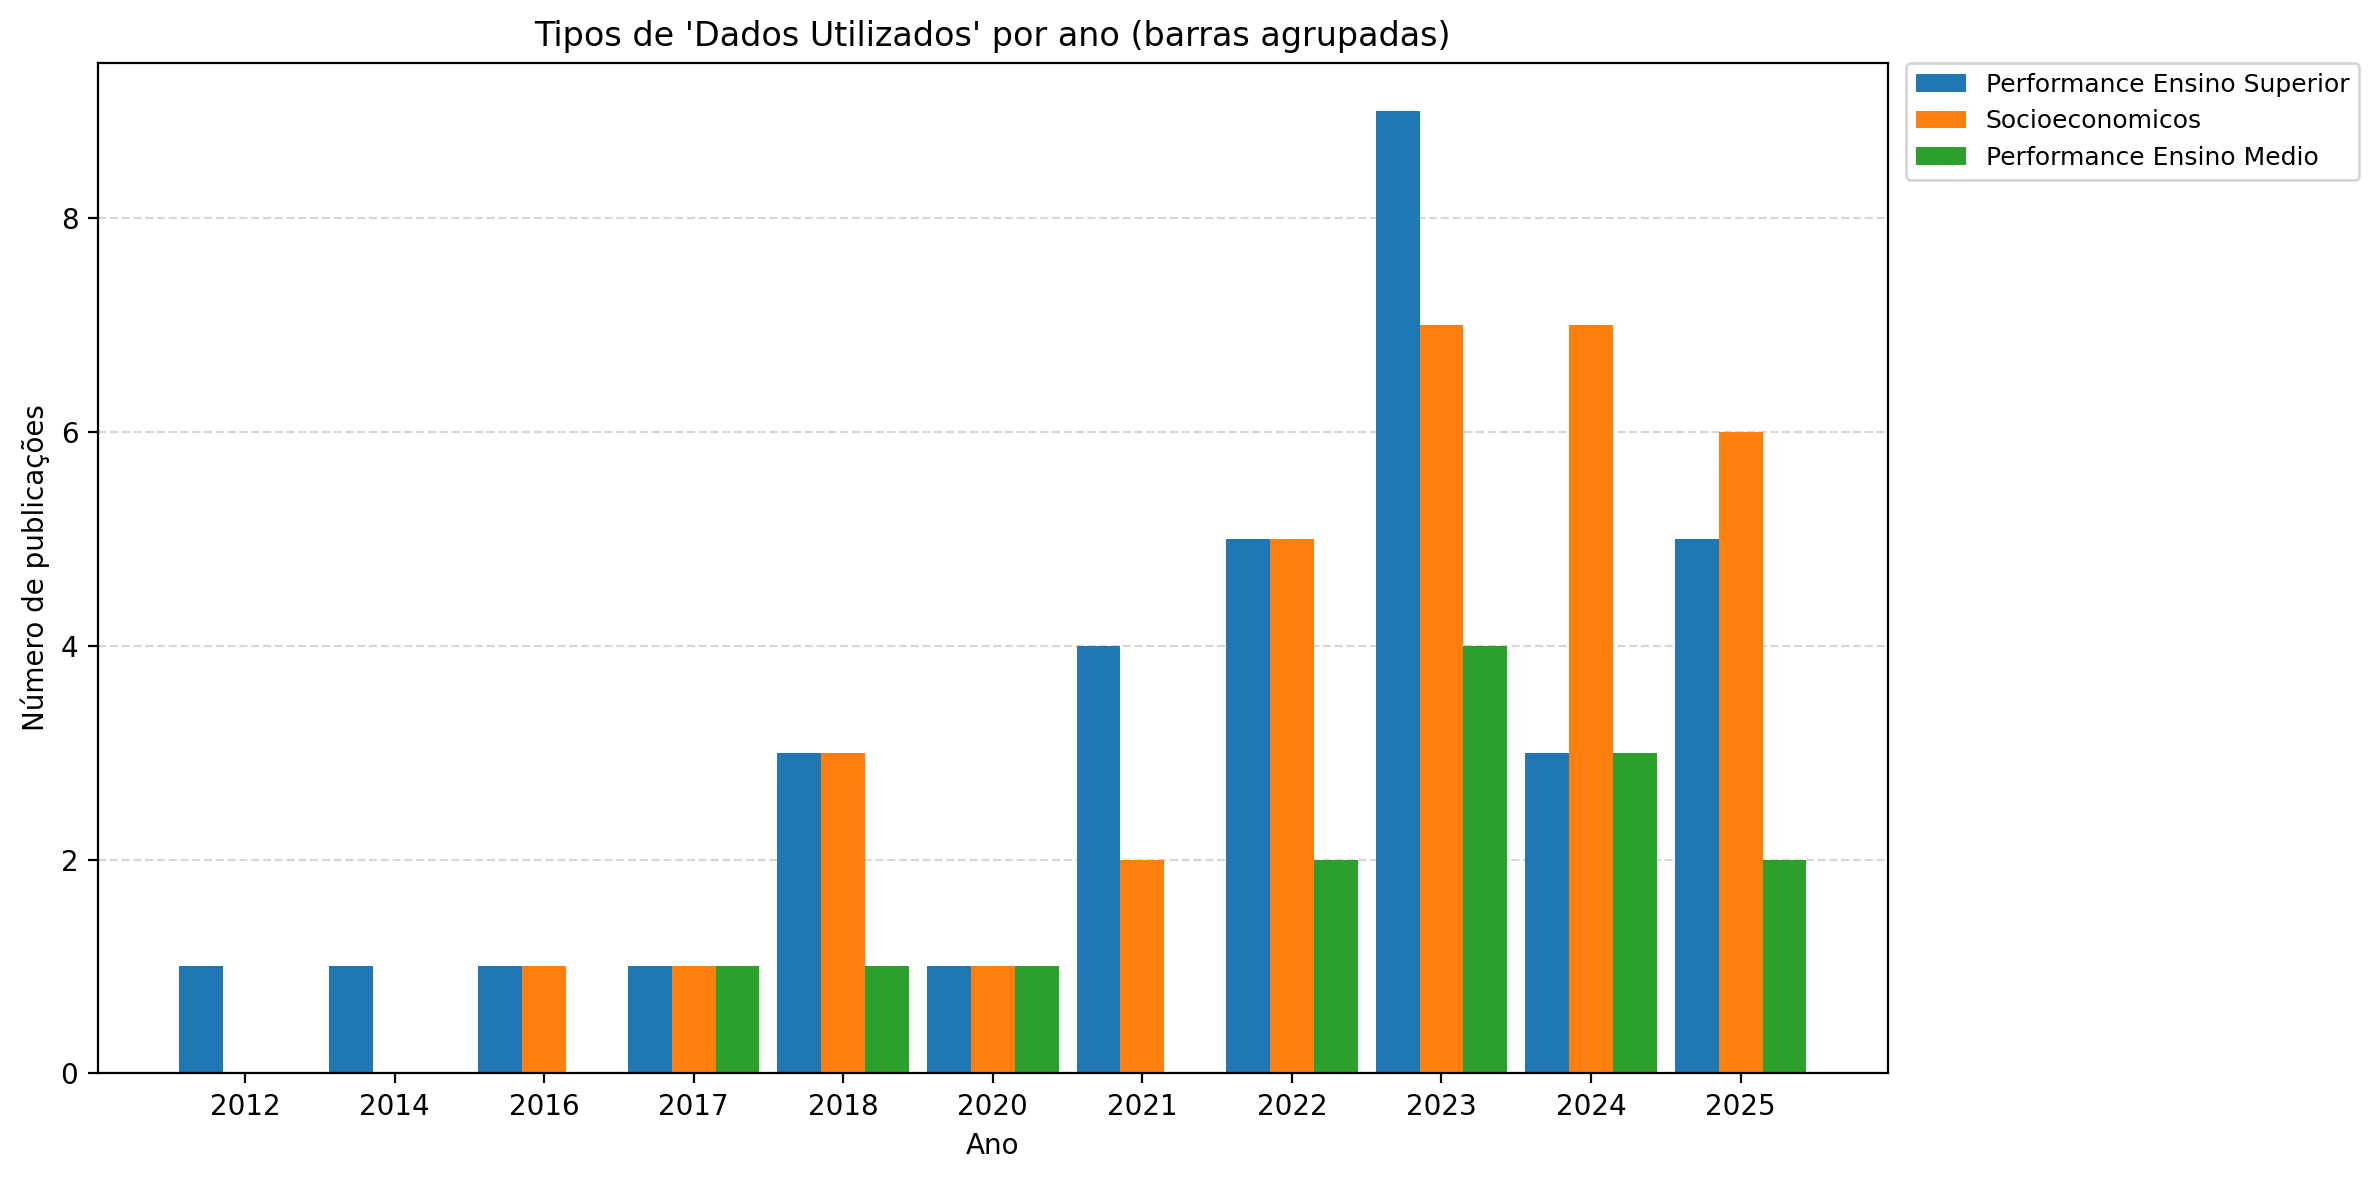
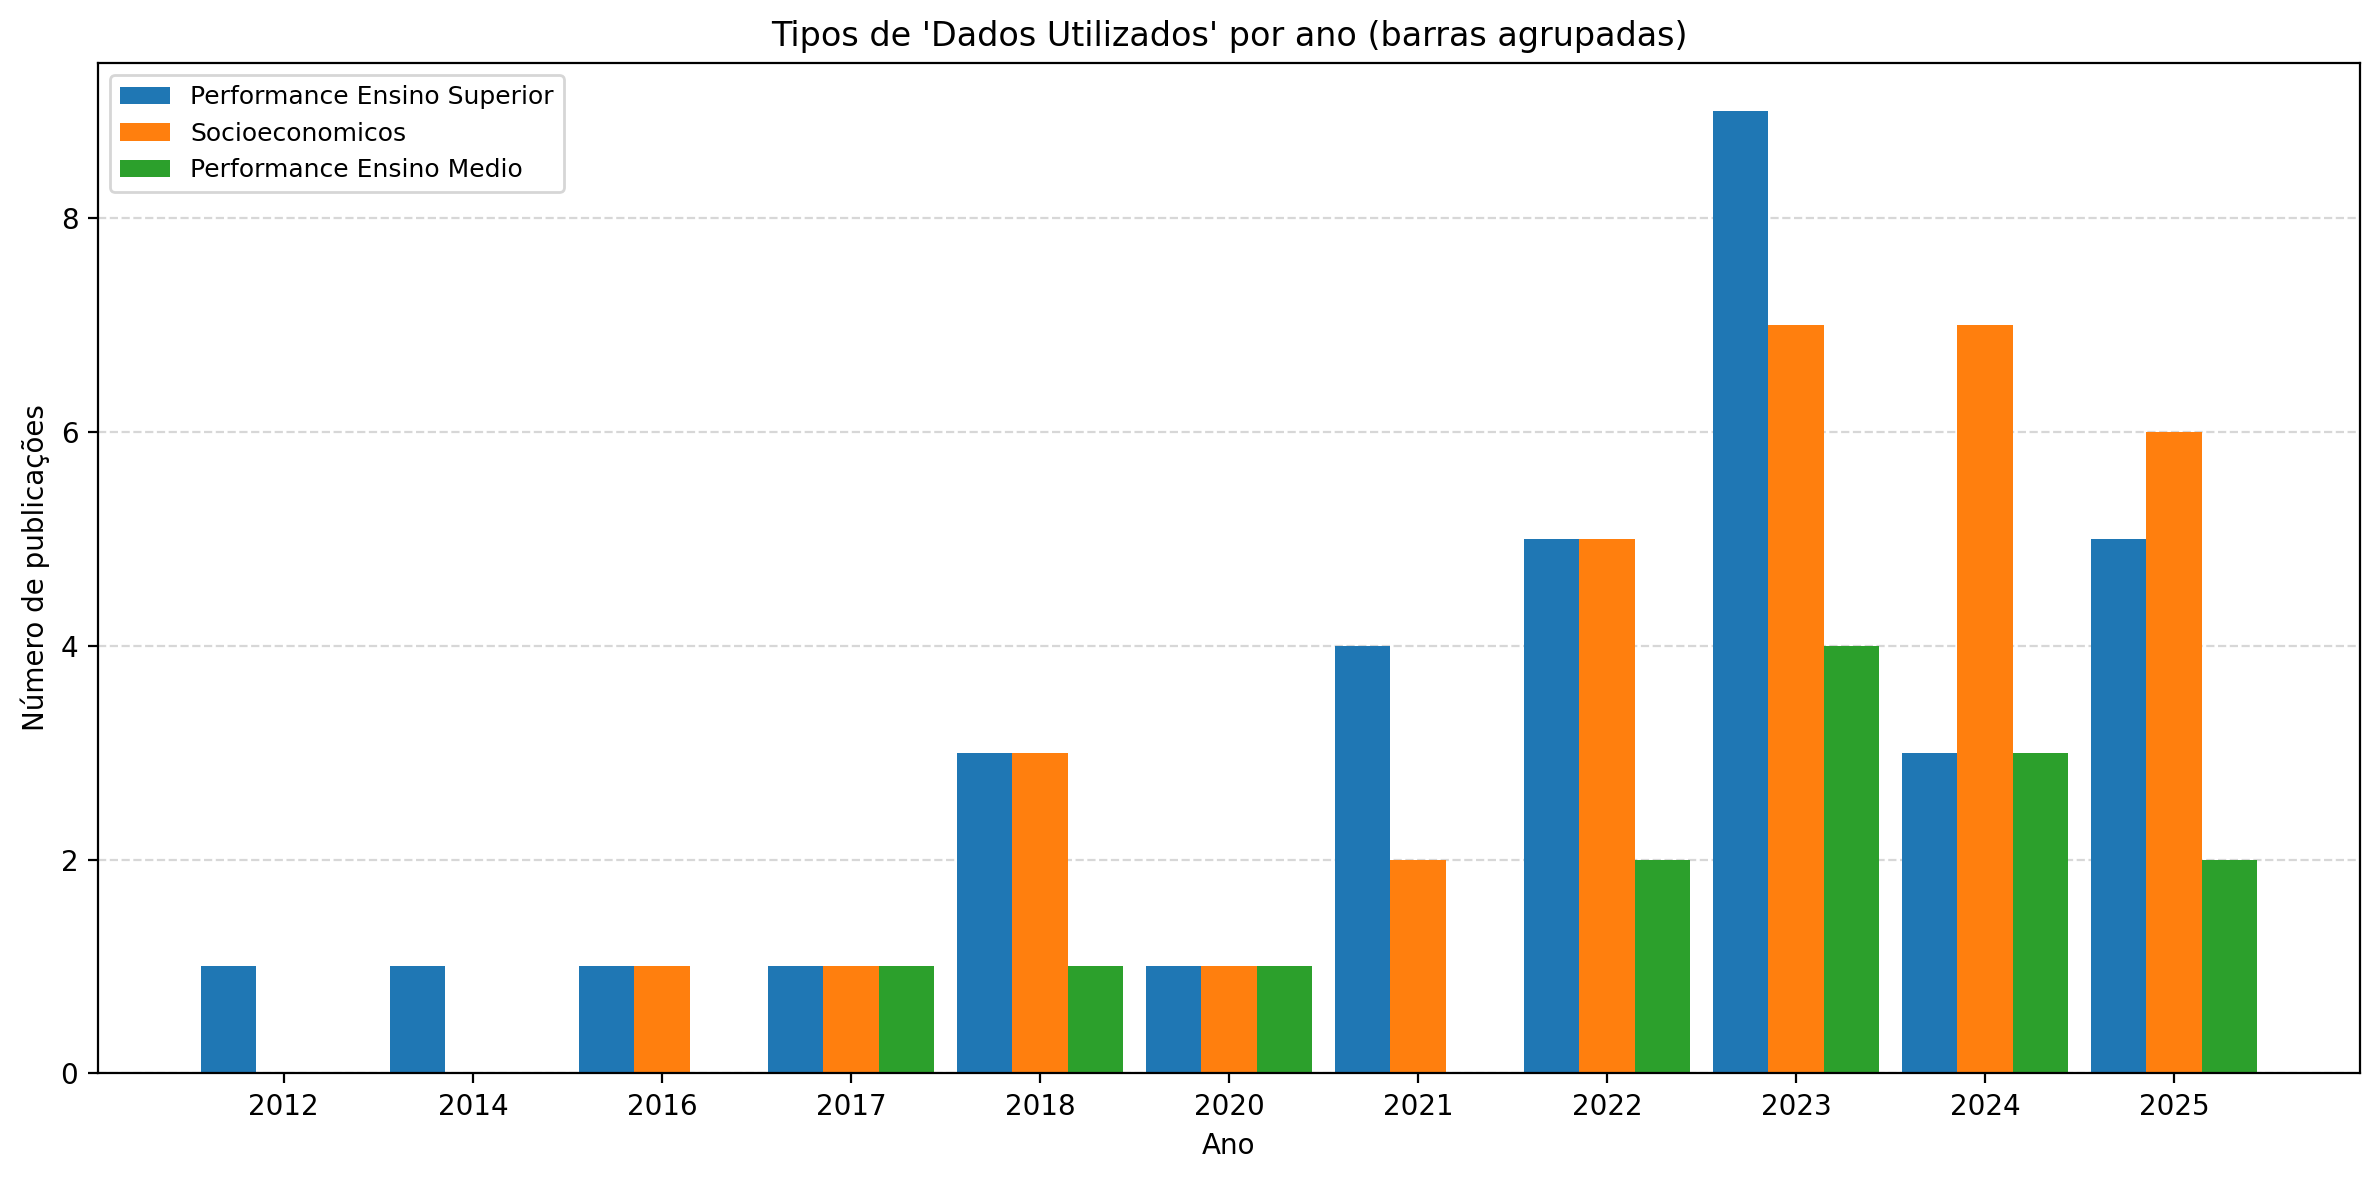
styles: coloca a legenda dentro dos histogramas

diff --git a/gera_histogramas_stacked_tipo_dados_ano.py b/gera_histogramas_stacked_tipo_dados_ano.py
@@ -227,7 +227,7 @@ def plot_stacked_bars(pivot: pd.DataFrame, out_path: Path, max_categories: int |
 
     # legenda fora do gráfico se houver muitas categorias
     ncols = 3 if data.shape[1] > 12 else 2 if data.shape[1] > 8 else 1
-    ax.legend(loc="upper left", bbox_to_anchor=(1.01, 1.0), borderaxespad=0., ncol=ncols, fontsize=9)
+    ax.legend(loc="upper left", ncol=ncols, fontsize=9, frameon=True)
 
     out_path.parent.mkdir(parents=True, exist_ok=True)
     plt.tight_layout()

diff --git a/gera_histogramas_grouped_tipo_dados_ano.py b/gera_histogramas_grouped_tipo_dados_ano.py
@@ -228,7 +228,7 @@ def plot_grouped_bars(pivot: pd.DataFrame, out_path: Path, max_categories: int |
 
     # legenda fora do gráfico se houver muitas categorias
     ncols = 3 if n_types > 12 else 2 if n_types > 8 else 1
-    ax.legend(loc="upper left", bbox_to_anchor=(1.01, 1.0), borderaxespad=0., ncol=ncols, fontsize=9)
+    ax.legend(loc="upper left", ncol=ncols, fontsize=9, frameon=True)
 
     out_path.parent.mkdir(parents=True, exist_ok=True)
     plt.tight_layout()
